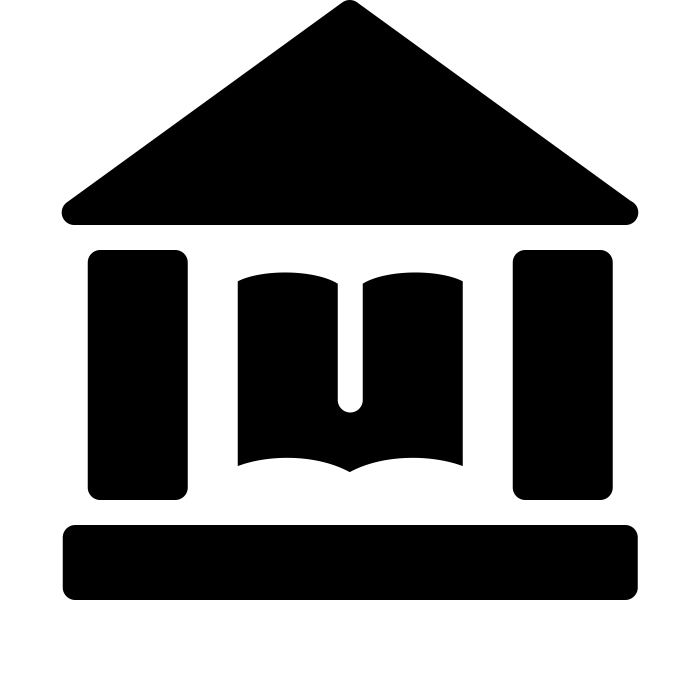
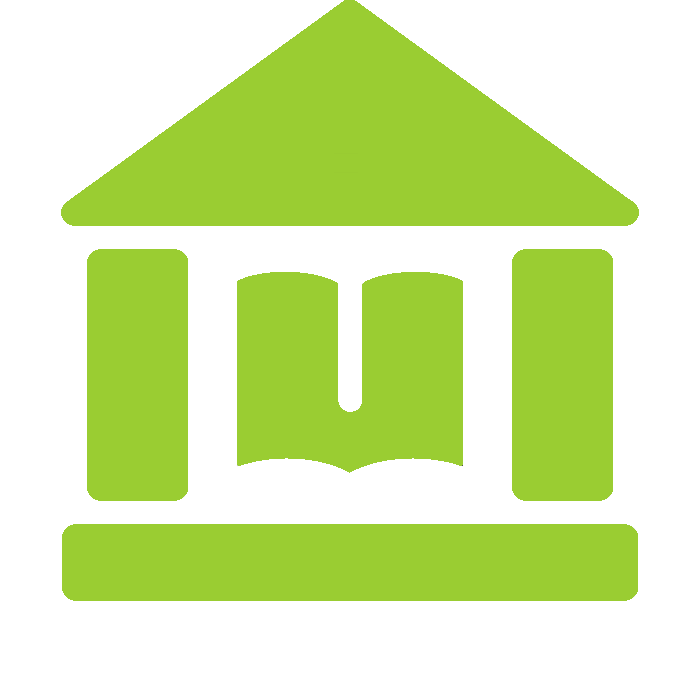
Changed colours of the UI, ready for design

diff --git a/WFInterface/ActualInterface.Designer.cs b/WFInterface/ActualInterface.Designer.cs
@@ -40,6 +40,12 @@
             btnBorrowed = new Button();
             pictureBox1 = new PictureBox();
             panel2 = new Panel();
+            panel3 = new Panel();
+            panel4 = new Panel();
+            panel5 = new Panel();
+            panel6 = new Panel();
+            panel7 = new Panel();
+            label1 = new Label();
             ((System.ComponentModel.ISupportInitialize)dataGridView1).BeginInit();
             panel1.SuspendLayout();
             ((System.ComponentModel.ISupportInitialize)pictureBox1).BeginInit();
@@ -48,7 +54,7 @@
             // dataGridView1
             // 
             dataGridView1.ColumnHeadersHeightSizeMode = DataGridViewColumnHeadersHeightSizeMode.AutoSize;
-            dataGridView1.Location = new Point(259, 94);
+            dataGridView1.Location = new Point(259, 110);
             dataGridView1.Margin = new Padding(3, 2, 3, 2);
             dataGridView1.Name = "dataGridView1";
             dataGridView1.RowHeadersWidth = 51;
@@ -57,6 +63,7 @@
             // 
             // TxtSearch
             // 
+            TxtSearch.BackColor = Color.SeaShell;
             TxtSearch.BorderStyle = BorderStyle.None;
             TxtSearch.Font = new Font("Calibri", 18F, FontStyle.Regular, GraphicsUnit.Point, 238);
             TxtSearch.ForeColor = Color.DarkGray;
@@ -81,7 +88,7 @@
             BtnSearch.FlatStyle = FlatStyle.Flat;
             BtnSearch.ForeColor = Color.Black;
             BtnSearch.Image = (Image)resources.GetObject("BtnSearch.Image");
-            BtnSearch.Location = new Point(705, 39);
+            BtnSearch.Location = new Point(706, 46);
             BtnSearch.Margin = new Padding(3, 2, 3, 2);
             BtnSearch.Name = "BtnSearch";
             BtnSearch.Size = new Size(50, 50);
@@ -90,7 +97,7 @@
             // 
             // panel1
             // 
-            panel1.BackColor = Color.Silver;
+            panel1.BackColor = Color.FromArgb(217, 189, 165);
             panel1.Controls.Add(btnlogout);
             panel1.Controls.Add(btnNotif);
             panel1.Controls.Add(btnRenewable);
@@ -100,7 +107,7 @@
             panel1.Location = new Point(-1, -2);
             panel1.Margin = new Padding(3, 2, 3, 2);
             panel1.Name = "panel1";
-            panel1.Size = new Size(236, 458);
+            panel1.Size = new Size(236, 578);
             panel1.TabIndex = 3;
             // 
             // btnlogout
@@ -110,7 +117,7 @@
             btnlogout.FlatStyle = FlatStyle.Flat;
             btnlogout.Font = new Font("Calibri", 15.75F, FontStyle.Bold, GraphicsUnit.Point, 238);
             btnlogout.ForeColor = Color.White;
-            btnlogout.Location = new Point(52, 338);
+            btnlogout.Location = new Point(45, 426);
             btnlogout.Margin = new Padding(3, 2, 3, 2);
             btnlogout.Name = "btnlogout";
             btnlogout.Size = new Size(129, 36);
@@ -166,11 +173,11 @@
             // 
             // btnBorrowed
             // 
-            btnBorrowed.BackColor = Color.DimGray;
+            btnBorrowed.BackColor = Color.OliveDrab;
             btnBorrowed.FlatAppearance.BorderSize = 0;
             btnBorrowed.FlatStyle = FlatStyle.Flat;
             btnBorrowed.Font = new Font("Calibri", 15.75F, FontStyle.Bold, GraphicsUnit.Point, 238);
-            btnBorrowed.ForeColor = Color.White;
+            btnBorrowed.ForeColor = Color.SeaShell;
             btnBorrowed.Location = new Point(29, 112);
             btnBorrowed.Margin = new Padding(3, 2, 3, 2);
             btnBorrowed.Name = "btnBorrowed";
@@ -198,13 +205,68 @@
             panel2.Size = new Size(441, 10);
             panel2.TabIndex = 4;
             // 
+            // panel3
+            // 
+            panel3.BackColor = Color.FromArgb(246, 238, 227);
+            panel3.Location = new Point(369, 510);
+            panel3.Name = "panel3";
+            panel3.Size = new Size(28, 25);
+            panel3.TabIndex = 5;
+            // 
+            // panel4
+            // 
+            panel4.BackColor = Color.FromArgb(238, 231, 215);
+            panel4.Location = new Point(403, 510);
+            panel4.Name = "panel4";
+            panel4.Size = new Size(28, 25);
+            panel4.TabIndex = 6;
+            // 
+            // panel5
+            // 
+            panel5.BackColor = Color.FromArgb(229, 222, 207);
+            panel5.Location = new Point(437, 510);
+            panel5.Name = "panel5";
+            panel5.Size = new Size(28, 25);
+            panel5.TabIndex = 7;
+            // 
+            // panel6
+            // 
+            panel6.BackColor = Color.FromArgb(229, 203, 186);
+            panel6.Location = new Point(471, 510);
+            panel6.Name = "panel6";
+            panel6.Size = new Size(28, 25);
+            panel6.TabIndex = 6;
+            // 
+            // panel7
+            // 
+            panel7.BackColor = Color.FromArgb(217, 189, 165);
+            panel7.Location = new Point(505, 510);
+            panel7.Name = "panel7";
+            panel7.Size = new Size(28, 25);
+            panel7.TabIndex = 8;
+            // 
+            // label1
+            // 
+            label1.AutoSize = true;
+            label1.Location = new Point(387, 492);
+            label1.Name = "label1";
+            label1.Size = new Size(130, 15);
+            label1.TabIndex = 9;
+            label1.Text = "Nie usuwać, przybornik";
+            // 
             // ActualInterface
             // 
             AutoScaleDimensions = new SizeF(7F, 15F);
             AutoScaleMode = AutoScaleMode.Font;
-            BackColor = Color.White;
-            ClientSize = new Size(800, 450);
+            BackColor = Color.SeaShell;
+            ClientSize = new Size(861, 561);
             ControlBox = false;
+            Controls.Add(label1);
+            Controls.Add(panel7);
+            Controls.Add(panel6);
+            Controls.Add(panel5);
+            Controls.Add(panel4);
+            Controls.Add(panel3);
             Controls.Add(panel2);
             Controls.Add(panel1);
             Controls.Add(BtnSearch);
@@ -233,5 +295,11 @@
         private Button btnRenewable;
         private Button btnRequested;
         private Panel panel2;
+        private Panel panel3;
+        private Panel panel4;
+        private Panel panel5;
+        private Panel panel6;
+        private Panel panel7;
+        private Label label1;
     }
 }

diff --git a/WFInterface/Form1.Designer.cs b/WFInterface/Form1.Designer.cs
@@ -28,7 +28,6 @@
         /// </summary>
         private void InitializeComponent()
         {
-            System.ComponentModel.ComponentResourceManager resources = new System.ComponentModel.ComponentResourceManager(typeof(Form1));
             pictureBox1 = new PictureBox();
             label1 = new Label();
             panel1 = new Panel();
@@ -58,7 +57,7 @@
             // 
             label1.AutoSize = true;
             label1.Font = new Font("Calibri", 21.75F, FontStyle.Bold, GraphicsUnit.Point, 238);
-            label1.ForeColor = Color.Black;
+            label1.ForeColor = Color.OliveDrab;
             label1.Location = new Point(41, 128);
             label1.MinimumSize = new Size(110, 40);
             label1.Name = "label1";
@@ -69,15 +68,16 @@
             // 
             // panel1
             // 
-            panel1.BackColor = Color.DimGray;
+            panel1.BackColor = Color.OliveDrab;
             panel1.Location = new Point(17, 216);
             panel1.Name = "panel1";
             panel1.Size = new Size(279, 10);
             panel1.TabIndex = 3;
+            panel1.Paint += panel1_Paint;
             // 
             // panel2
             // 
-            panel2.BackColor = Color.DimGray;
+            panel2.BackColor = Color.OliveDrab;
             panel2.Location = new Point(17, 302);
             panel2.Name = "panel2";
             panel2.Size = new Size(279, 11);
@@ -85,11 +85,11 @@
             // 
             // LoginButton
             // 
-            LoginButton.BackColor = Color.DimGray;
+            LoginButton.BackColor = Color.OliveDrab;
             LoginButton.FlatAppearance.BorderSize = 0;
             LoginButton.FlatStyle = FlatStyle.Flat;
             LoginButton.Font = new Font("Calibri", 15.75F, FontStyle.Bold, GraphicsUnit.Point, 238);
-            LoginButton.ForeColor = Color.White;
+            LoginButton.ForeColor = Color.SeaShell;
             LoginButton.Location = new Point(22, 362);
             LoginButton.Name = "LoginButton";
             LoginButton.Size = new Size(265, 32);
@@ -102,6 +102,7 @@
             // 
             ExitLabel.AutoSize = true;
             ExitLabel.Font = new Font("Microsoft Sans Serif", 9.75F, FontStyle.Regular, GraphicsUnit.Point, 238);
+            ExitLabel.ForeColor = Color.ForestGreen;
             ExitLabel.Location = new Point(141, 416);
             ExitLabel.Name = "ExitLabel";
             ExitLabel.Size = new Size(28, 16);
@@ -111,6 +112,7 @@
             // 
             // TxtUsername
             // 
+            TxtUsername.BackColor = Color.SeaShell;
             TxtUsername.BorderStyle = BorderStyle.None;
             TxtUsername.Font = new Font("Calibri", 17.25F, FontStyle.Regular, GraphicsUnit.Point, 238);
             TxtUsername.ForeColor = Color.DarkGray;
@@ -125,6 +127,7 @@
             // 
             // TxtPassword
             // 
+            TxtPassword.BackColor = Color.SeaShell;
             TxtPassword.BorderStyle = BorderStyle.None;
             TxtPassword.Font = new Font("Calibri", 17.25F, FontStyle.Regular, GraphicsUnit.Point, 238);
             TxtPassword.ForeColor = Color.DarkGray;
@@ -139,7 +142,7 @@
             // 
             // pictureBox2
             // 
-            pictureBox2.Image = (Image)resources.GetObject("pictureBox2.Image");
+            pictureBox2.Image = Properties.Resources.icons8_padlock_24;
             pictureBox2.Location = new Point(20, 267);
             pictureBox2.Margin = new Padding(3, 2, 3, 2);
             pictureBox2.Name = "pictureBox2";
@@ -164,7 +167,7 @@
             AcceptButton = LoginButton;
             AutoScaleDimensions = new SizeF(7F, 15F);
             AutoScaleMode = AutoScaleMode.Font;
-            BackColor = Color.White;
+            BackColor = Color.SeaShell;
             ClientSize = new Size(308, 486);
             Controls.Add(pictureBox3);
             Controls.Add(pictureBox2);

diff --git a/WFInterface/Form1.cs b/WFInterface/Form1.cs
@@ -18,7 +18,7 @@ namespace WFInterface
         private void LoginButton_Click(object sender, EventArgs e)
         {
             if (OpenUsers(TxtUsername.Text, TxtPassword.Text, usersPath) == true)
-             //if (TxtUsername.Text == "Test" && TxtPassword.Text == "1234")
+            //if (TxtUsername.Text == "Test" && TxtPassword.Text == "1234")
             {
                 new ActualInterface().Show();
                 this.Hide();
@@ -88,7 +88,7 @@ namespace WFInterface
                 TxtPassword.ForeColor = Color.Silver;
             }
         }
-        
+
         //Method to open a file with users and try to log in
         //uses CsvHelper to search through a csv to find user data
         public static bool OpenUsers(string username, string password, string filePath)
@@ -102,8 +102,8 @@ namespace WFInterface
                     {
                         var records = csv.GetRecords<User>();
 
-                        foreach (var user in records) 
-                        { 
+                        foreach (var user in records)
+                        {
                             if (user.Login == username)
                             {
                                 if (user.Password == password)
@@ -112,10 +112,10 @@ namespace WFInterface
                                 }
                             }
                         }
-                        
+
                     }
                 }
-            } 
+            }
             catch (Exception ex)
             {
                 throw;
@@ -129,6 +129,11 @@ namespace WFInterface
             public string UserName { get; set; } = "";
             public string UserSurname { get; set; } = "";
             public bool IsAdmin { get; set; } = false;
+        }
+
+        private void panel1_Paint(object sender, PaintEventArgs e)
+        {
+
         }
     }
 }
